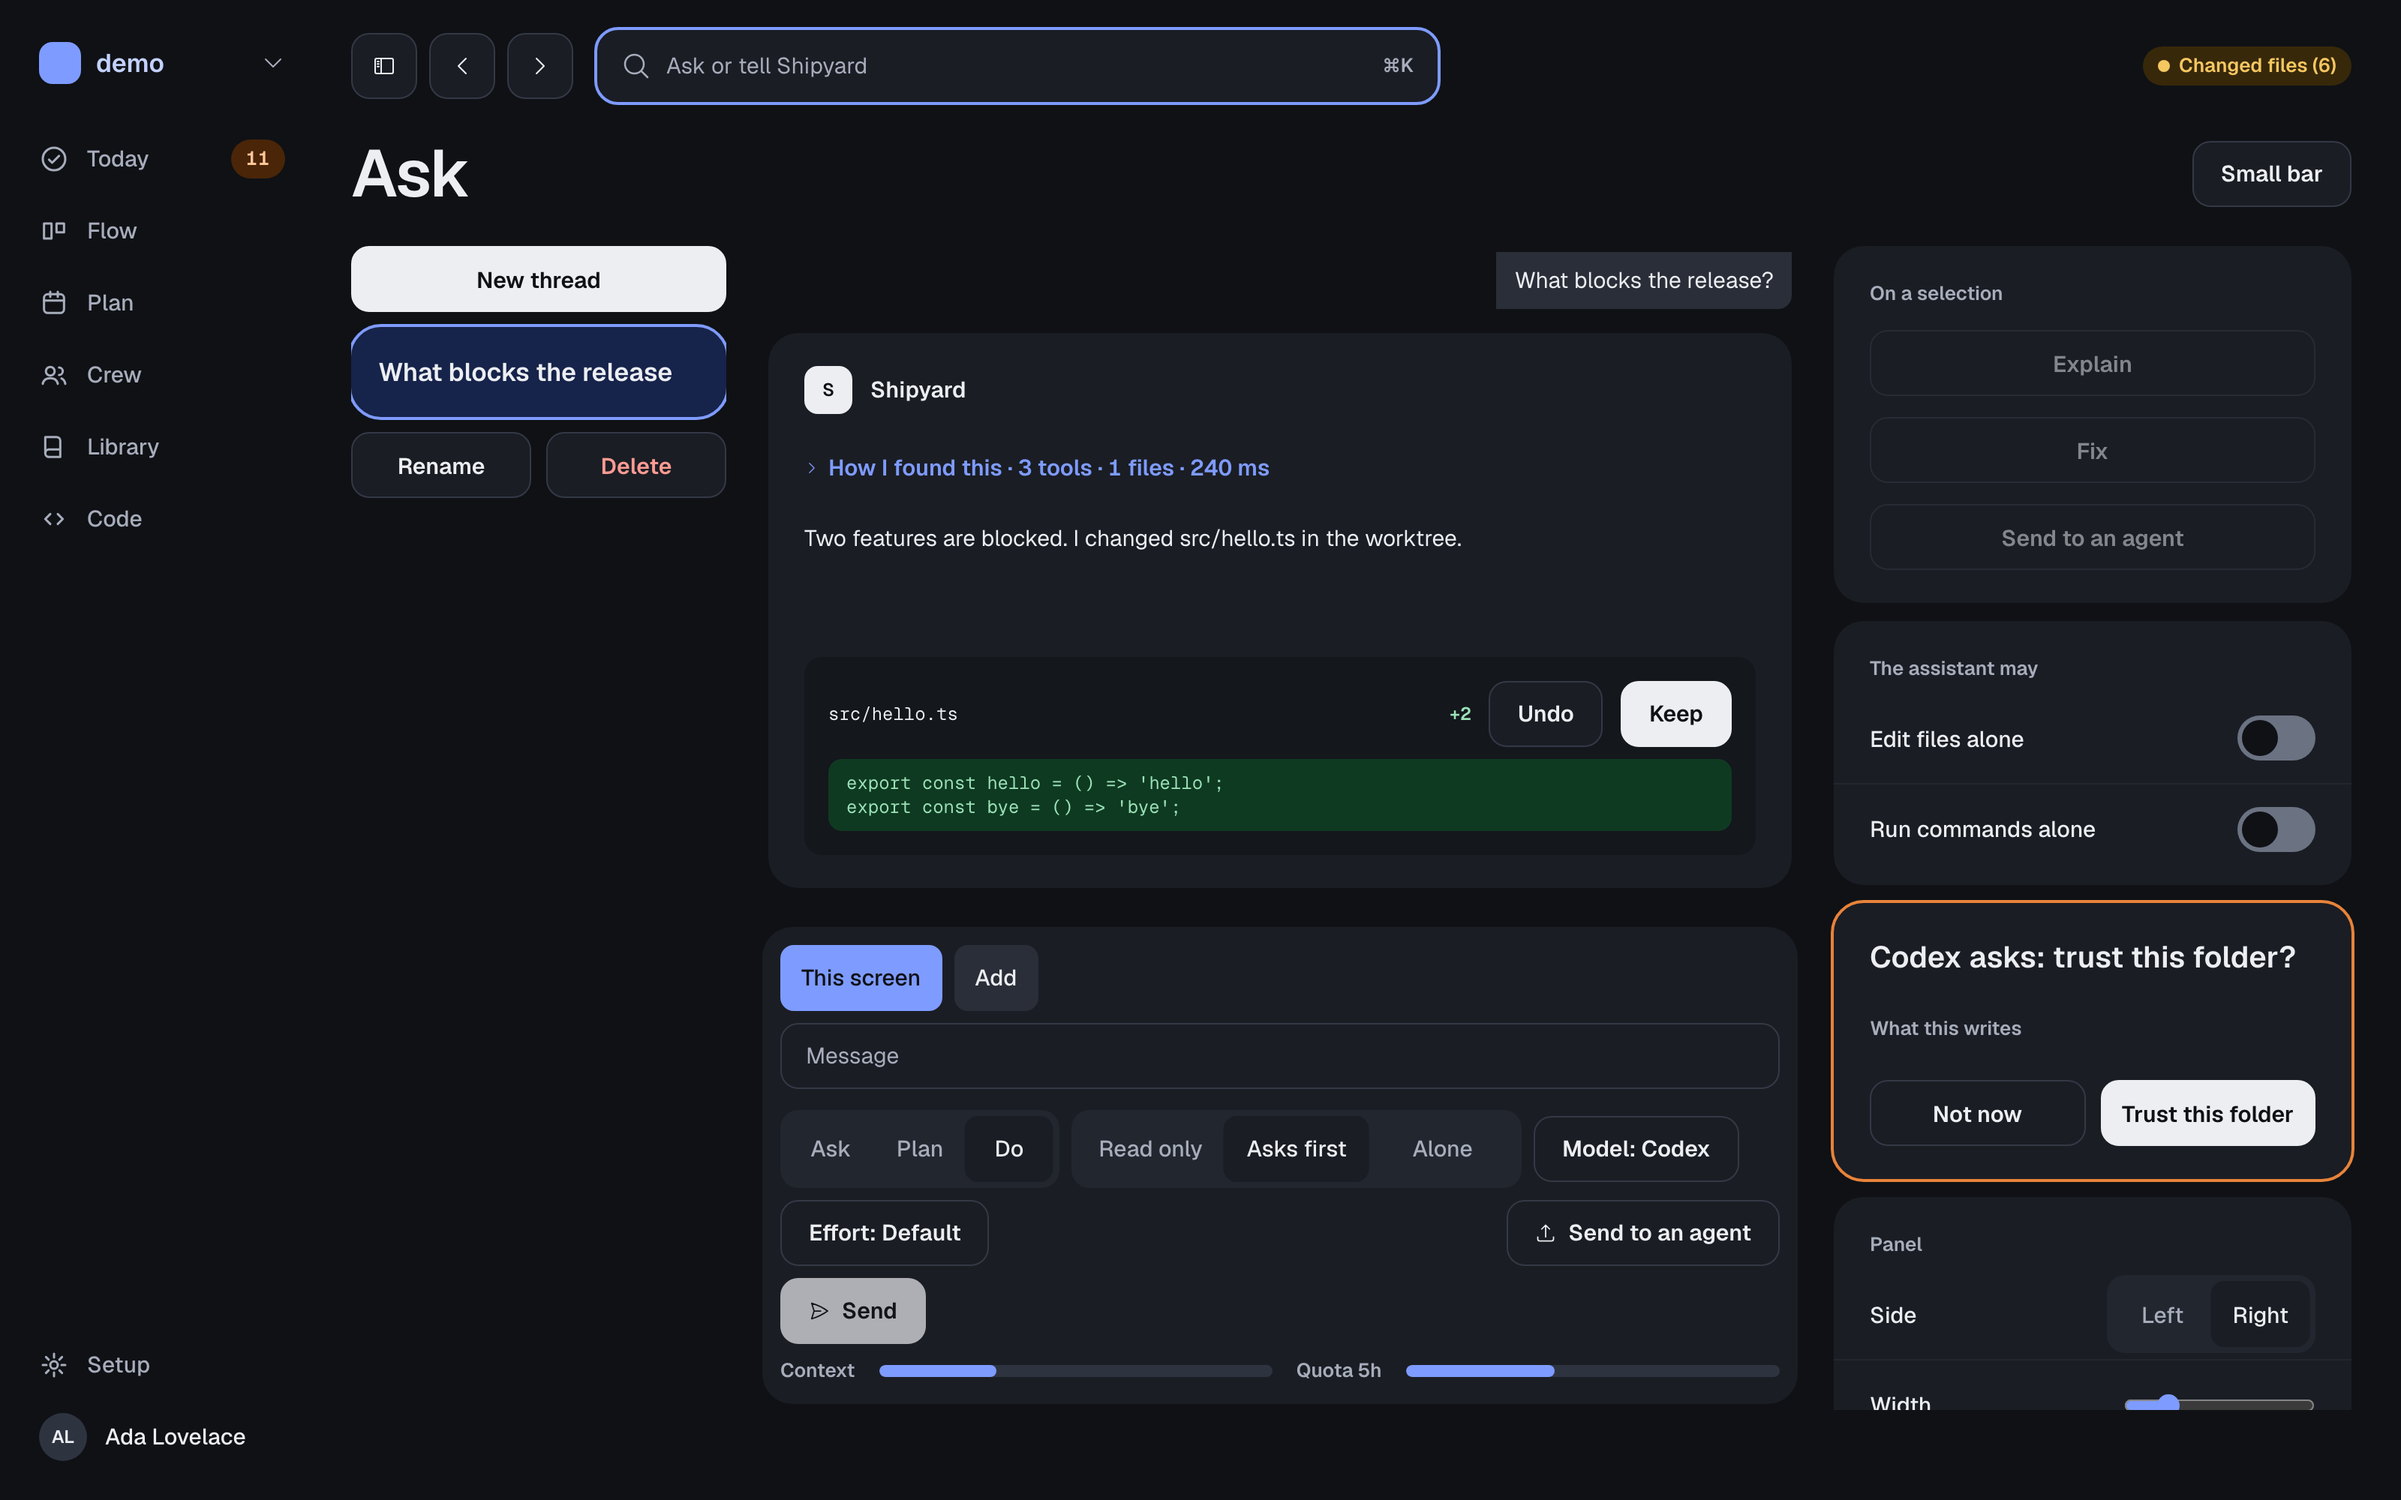
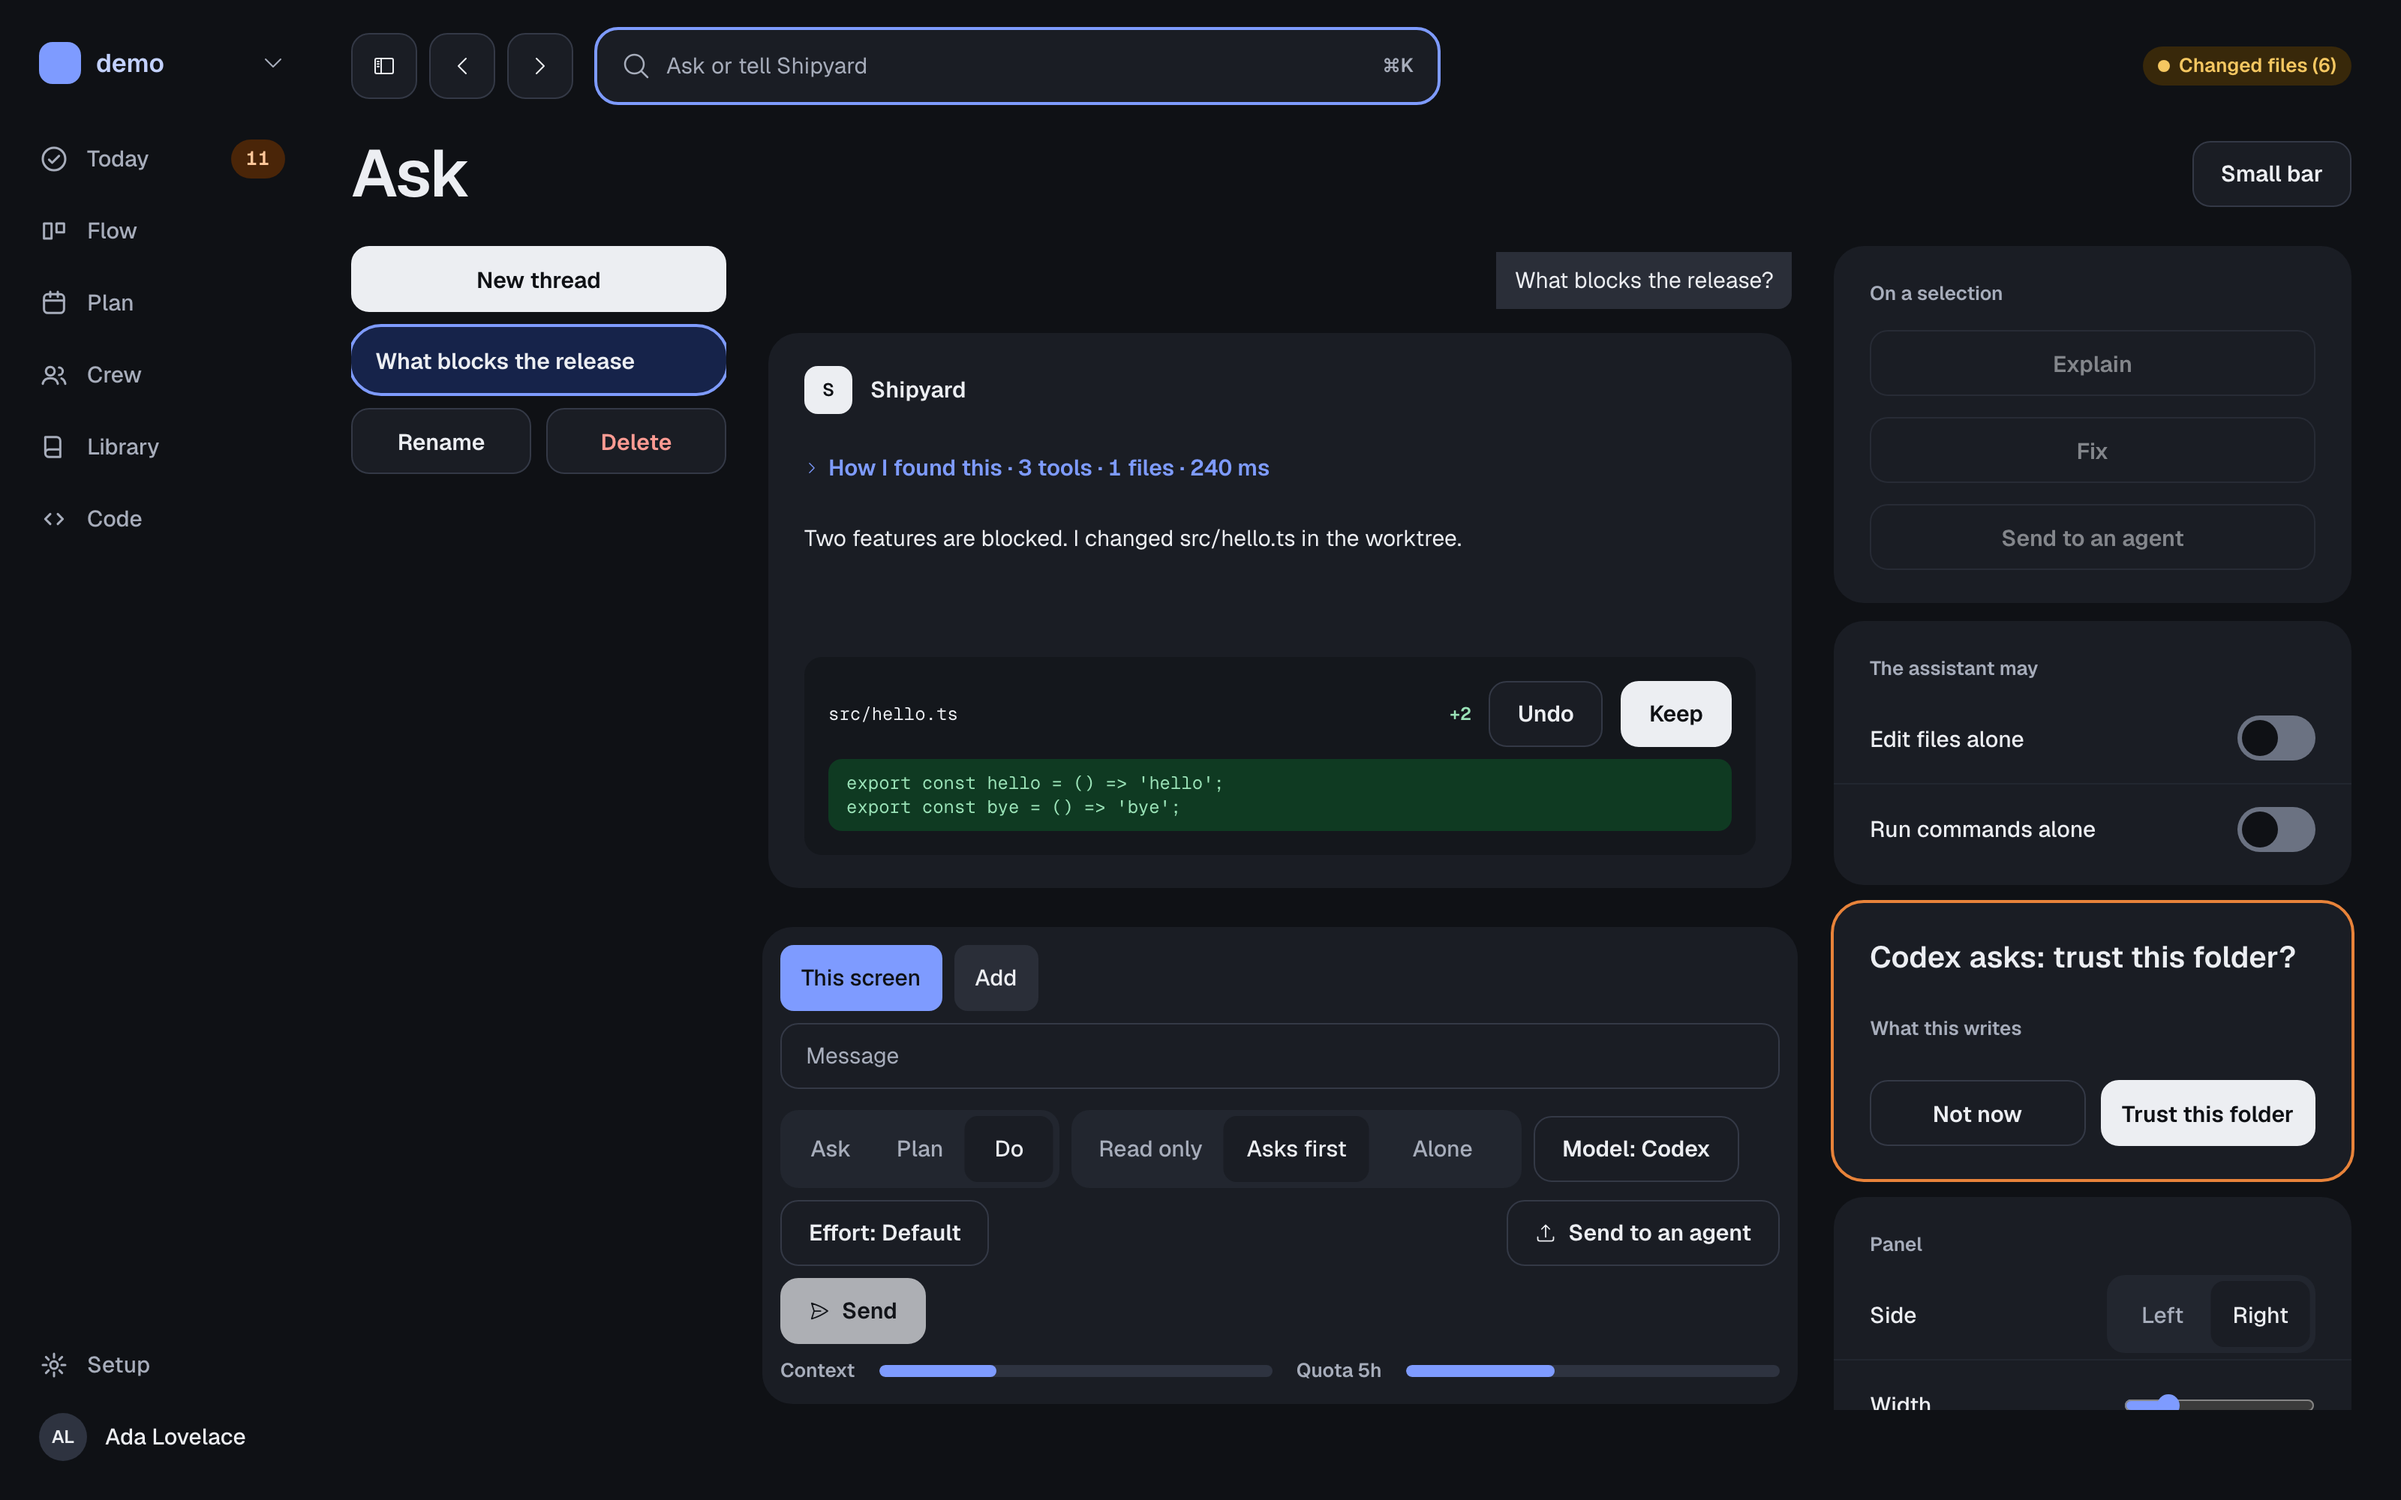
fix(ask): keep each thread of the Ask page one line high

Changed region(s): [[0.125, 0.217, 0.3125, 0.341]]

diff --git a/src/features/assistant/threads.tsx b/src/features/assistant/threads.tsx
@@ -80,6 +80,8 @@ export function Threads({ a, full }: { a: Assistant; full?: boolean }) {
 												: name
 										}
 										selected={th.id === id}
+										// A thread is a row of the list, not a big choice tile: the design keeps it one line high.
+										className="justify-center px-4 py-2.5 text-ui"
 										aria-current={th.id === id ? "true" : undefined}
 										onClick={() => void a.select(th.id)}
 									/>
